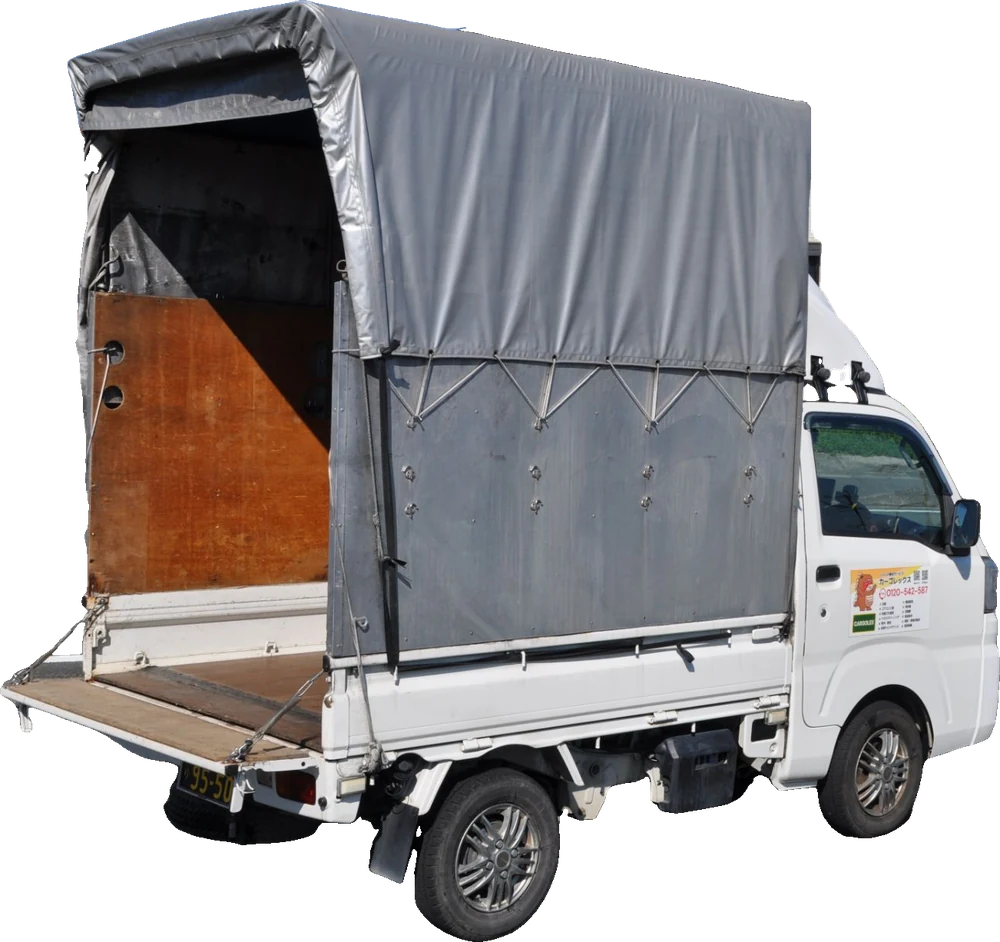
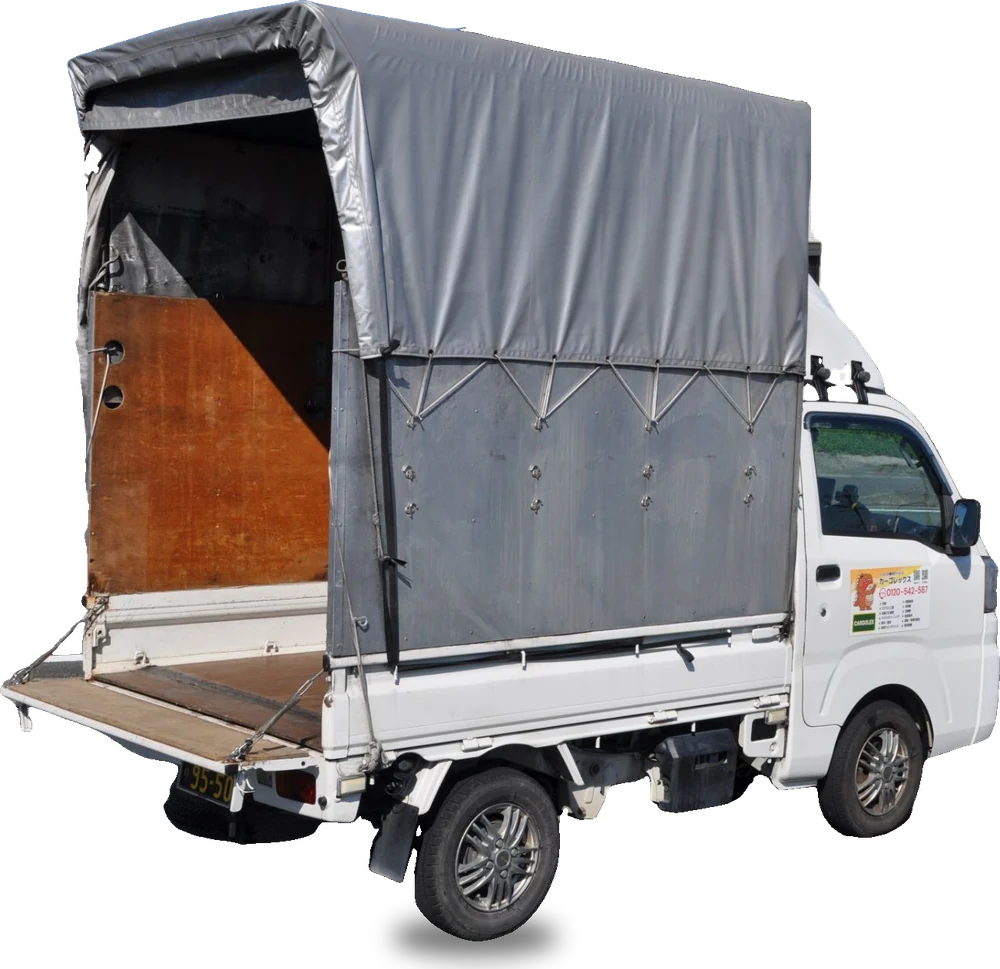
車両の切り抜き写真に接地影を追加し、正面写真の足回りを復元
Claude-Session: https://claude.ai/code/session_01UJZkWmKuVsCKefuCYgREub

diff --git a/company.html b/company.html
@@ -195,15 +195,15 @@
     </div>
     <figure class="blueprint veh-photo" style="padding:28px;margin:0">
       <i class="corner tl"></i><i class="corner tr"></i><i class="corner bl"></i><i class="corner br"></i>
-      <img src="assets/img/truck-front.webp" alt="カーゴレックスの幌付き軽トラック" width="901" height="1000" loading="lazy" style="width:100%;max-height:440px;object-fit:contain;display:block">
+      <img src="assets/img/truck-front.webp" alt="カーゴレックスの幌付き軽トラック" width="875" height="1000" loading="lazy" style="width:100%;max-height:440px;object-fit:contain;display:block">
     </figure>
   </div>
   <div class="split" style="margin-top:40px">
     <figure class="blueprint veh-photo" style="padding:24px;margin:0">
       <i class="corner tl"></i><i class="corner tr"></i><i class="corner bl"></i><i class="corner br"></i>
       <div style="position:relative;max-width:380px;margin:0 auto">
-        <img src="assets/img/truck-cargo.webp" alt="荷室の寸法：幅1,400mm、高さ2,100mm（低い状態で1,800mm）" width="649" height="1000" loading="lazy" style="width:100%;height:auto;display:block">
-        <svg viewBox="0 0 772 1190" aria-hidden="true" style="position:absolute;inset:0;width:100%;height:100%;overflow:visible">
+        <img src="assets/img/truck-cargo.webp" alt="荷室の寸法：幅1,400mm、高さ2,100mm（低い状態で1,800mm）" width="630" height="1000" loading="lazy" style="width:100%;height:auto;display:block">
+        <svg viewBox="0 0 772 1225" aria-hidden="true" style="position:absolute;inset:0;width:100%;height:100%;overflow:visible">
           <defs><marker id="ah" viewBox="0 0 10 10" refX="5" refY="5" markerWidth="4" markerHeight="4" orient="auto-start-reverse"><path d="M0 0L10 5L0 10z" fill="#f7d117"/></marker></defs>
           <g stroke="#f7d117" stroke-width="9" stroke-linecap="round" marker-start="url(#ah)" marker-end="url(#ah)">
             <line x1="690" y1="962" x2="690" y2="152"/>
@@ -232,15 +232,15 @@
       <div class="g3 veh-thumbs" style="margin-top:28px;gap:14px">
         <figure class="blueprint veh-photo" style="padding:12px;margin:0">
           <i class="corner tl"></i><i class="corner tr"></i><i class="corner bl"></i><i class="corner br"></i>
-          <img src="assets/img/truck-front-straight.webp" alt="正面" width="727" height="1000" loading="lazy" style="width:100%;height:170px;object-fit:contain;display:block">
+          <img src="assets/img/truck-front-straight.webp" alt="正面" width="678" height="1000" loading="lazy" style="width:100%;height:170px;object-fit:contain;display:block">
         </figure>
         <figure class="blueprint veh-photo" style="padding:12px;margin:0">
           <i class="corner tl"></i><i class="corner tr"></i><i class="corner bl"></i><i class="corner br"></i>
-          <img src="assets/img/truck-side.webp" alt="あおりを開けた荷台（側面）" width="1000" height="942" loading="lazy" style="width:100%;height:170px;object-fit:contain;display:block">
+          <img src="assets/img/truck-side.webp" alt="あおりを開けた荷台（側面）" width="1000" height="969" loading="lazy" style="width:100%;height:170px;object-fit:contain;display:block">
         </figure>
         <figure class="blueprint veh-photo" style="padding:12px;margin:0">
           <i class="corner tl"></i><i class="corner tr"></i><i class="corner bl"></i><i class="corner br"></i>
-          <img src="assets/img/truck-rear.webp" alt="幌を閉じた状態（後方）" width="803" height="1000" loading="lazy" style="width:100%;height:170px;object-fit:contain;display:block">
+          <img src="assets/img/truck-rear.webp" alt="幌を閉じた状態（後方）" width="780" height="1000" loading="lazy" style="width:100%;height:170px;object-fit:contain;display:block">
         </figure>
       </div>
     </div>
